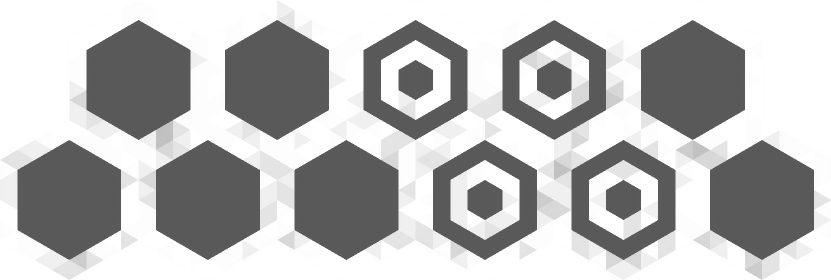
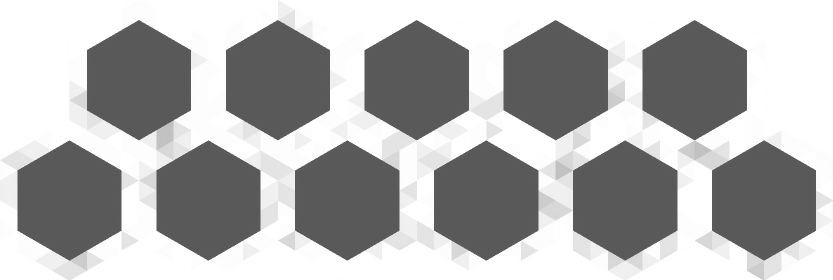
Updated Hexabar assets. Started implementation (need to finish adding buttons and fix the scaling problem).

diff --git a/core/main/java/com/ragego/gui/screens/GoGameScreen.java b/core/main/java/com/ragego/gui/screens/GoGameScreen.java
@@ -11,8 +11,14 @@ import com.badlogic.gdx.maps.tiled.TiledMapTileSet;
 import com.badlogic.gdx.maps.tiled.renderers.IsometricTiledMapRenderer;
 import com.badlogic.gdx.math.Vector2;
 import com.badlogic.gdx.math.Vector3;
+import com.badlogic.gdx.scenes.scene2d.InputEvent;
+import com.badlogic.gdx.scenes.scene2d.Stage;
+import com.badlogic.gdx.scenes.scene2d.utils.ClickListener;
 import com.badlogic.gdx.utils.viewport.ExtendViewport;
+import com.badlogic.gdx.utils.viewport.ScreenViewport;
 import com.ragego.gui.RageGoGame;
+import com.ragego.gui.menu.HexaBar;
+import com.ragego.gui.menu.HexaBarButton;
 import com.ragego.gui.objects.Goban;
 import com.ragego.utils.GuiUtils;
 
@@ -38,9 +44,12 @@ public abstract class GoGameScreen extends ScreenAdapter {
     protected TiledMapTileLayer gridLayer;
     protected TiledMapTileLayer selection;
     protected TiledMapTile selectionTile;
-
-    protected Vector2 topTileCoords, bottomTileCoords, leftTileCoords, rightTileCoords,
+        protected Vector2 topTileCoords, bottomTileCoords, leftTileCoords, rightTileCoords,
         topTileWorldCoords, bottomTileWorldCoords, leftTileWorldCoords, rightTileWorldCoords, mapPartCenter;
+
+    protected ScreenViewport hudViewport;
+    protected Stage hudStage;
+    protected HexaBar hexaBar;
 
     @Override
     public final void show() {
@@ -101,9 +110,80 @@ public abstract class GoGameScreen extends ScreenAdapter {
         setupGoban(goban);
 
         /*
-            Interaction components setup
-         */
+            HUD setup
+        */
+        hudViewport = new ScreenViewport();
+        hudStage = new Stage();
+        //stage.setDebugAll(true);
+
         Gdx.input.setInputProcessor(inputMultiplexer);
+        inputMultiplexer.addProcessor(hudStage);
+
+        hexaBar = new HexaBar(hudStage);
+
+        // Forward Button
+        HexaBarButton forwardButton = new HexaBarButton(hexaBar, "com/ragego/gui/hexabar/forward_button_up.png",
+                "com/ragego/gui/hexabar/forward_button_down.png", 1);
+        forwardButton.addListener(new ClickListener() {
+            @Override
+            public void clicked(InputEvent event, float x, float y) {
+            }
+        });
+        /*
+        //Solo Button
+        HexaBarButton soloButton = new HexaBarButton(hexaBar, "com/ragego/gui/hexabar/button_solo.png", HexaBar.Position.TOP);
+        soloButton.addListener(new ClickListener() {
+            @Override
+            public void clicked(InputEvent event, float x, float y) {
+                Gdx.app.log(TAG, "Solo Button clicked");
+            }
+        });
+
+        //Online Button
+        HexaBarButton onlineButton = new HexaBarButton(hexaBar, "com/ragego/gui/hexabar/button_online.png", HexaBar.Position.RIGHT_TOP);
+        onlineButton.addListener(new ClickListener() {
+            @Override
+            public void clicked(InputEvent event, float x, float y) {
+                nextScreen = new OnlineScreen();
+            }
+        });
+
+        //Credits Button
+        HexaBarButton creditsButton = new HexaBarButton(hexaBar, "com/ragego/gui/hexabar/button_credits.png", HexaBar.Position.RIGHT_BOTTOM);
+        creditsButton.addListener(new ClickListener() {
+            @Override
+            public void clicked(InputEvent event, float x, float y) {
+                Gdx.app.log(TAG, "Credits Button clicked");
+            }
+        });
+
+        //Return Button
+        HexaBarButton returnButton = new HexaBarButton(hexaBar, "com/ragego/gui/hexabar/button_return.png", HexaBar.Position.BOTTOM);
+        returnButton.addListener(new ClickListener() {
+            @Override
+            public void clicked(InputEvent event, float x, float y) {
+                Gdx.app.exit();
+            }
+        });
+
+        //Multiplayer Button
+        HexaBarButton multiPlayerButton = new HexaBarButton(hexaBar, "com/ragego/gui/hexabar/button_multiplayer.png", HexaBar.Position.LEFT_TOP);
+        multiPlayerButton.addListener(new ClickListener() {
+            @Override
+            public void clicked(InputEvent event, float x, float y) {
+                nextScreen = new SimpleGoGameScreen();
+            }
+        });
+
+        //Parameters Button
+        HexaBarButton parametersButton = new HexaBarButton(hexaBar, "com/ragego/gui/hexabar/button_parameters.png", HexaBar.Position.LEFT_BOTTOM);
+        parametersButton.addListener(new ClickListener() {
+            @Override
+            public void clicked(InputEvent event, float x, float y) {
+                Gdx.app.log(TAG, "Parameters Button clicked");
+            }
+        });
+        */
     }
 
     /**
@@ -129,6 +209,9 @@ public abstract class GoGameScreen extends ScreenAdapter {
 
         renderer.setView(camera);
         renderer.render();
+
+        hudStage.act(Math.min(Gdx.graphics.getDeltaTime(), 1 / 60f));
+        hudStage.draw();
     }
 
     @Override
@@ -157,6 +240,7 @@ public abstract class GoGameScreen extends ScreenAdapter {
     @Override
     public void dispose() {
         renderer.dispose();
+        hudStage.dispose();
     }
 
     public TiledMap getMap() {

diff --git a/core/main/java/com/ragego/gui/menu/HexaBarButton.java b/core/main/java/com/ragego/gui/menu/HexaBarButton.java
@@ -1,0 +1,85 @@
+package com.ragego.gui.menu;
+
+import com.badlogic.gdx.Gdx;
+import com.badlogic.gdx.graphics.Texture;
+import com.badlogic.gdx.graphics.g2d.TextureRegion;
+import com.badlogic.gdx.math.Vector2;
+import com.badlogic.gdx.scenes.scene2d.ui.Button;
+import com.badlogic.gdx.scenes.scene2d.utils.TextureRegionDrawable;
+
+/**
+ * Button for the {@link HexaBar}.
+ */
+public class HexaBarButton extends Button {
+
+    /**
+     * Menu where this button is displayed.
+     */
+    private final HexaBar hexabar;
+
+    /**
+     * Position of this button in the hexabar.
+     */
+    private int position;
+
+    private Texture upTexture;
+    private Texture downTexture;
+
+    /**
+     * @param hexabar The hexabar where the button will be
+     * @param upTexToLoad The up texture to load
+     * @param downTexToLoad The down texture to load
+     * @param position The wanted position in the hex coordinates system
+     */
+    public HexaBarButton(HexaBar hexabar, String upTexToLoad, String downTexToLoad, int position) {
+        this.hexabar = hexabar;
+        loadTex(upTexToLoad, downTexToLoad);
+        setSize(getPrefWidth(), getPrefHeight());
+        setPosition(position);
+        hexabar.addButton(this);
+    }
+
+    /**
+     * Load textures and update variables.
+     *
+     * @param upTexToLoad URI to give to {@link com.badlogic.gdx.Gdx#files}
+     * @param downTexToLoad URI to give to {@link com.badlogic.gdx.Gdx#files}
+     */
+    private void loadTex(String upTexToLoad, String downTexToLoad) {
+        upTexture = new Texture(Gdx.files.classpath(upTexToLoad));
+        downTexture = new Texture(Gdx.files.classpath(downTexToLoad));
+        Button.ButtonStyle style = new Button.ButtonStyle();
+        style.up = new TextureRegionDrawable(new TextureRegion(upTexture));
+        style.down = new TextureRegionDrawable(new TextureRegion(downTexture));
+        setStyle(style);
+    }
+
+    /**
+     * Get the used position for this button.
+     *
+     * @return The position
+     */
+    public int getPosition() {
+        return position;
+    }
+
+    /**
+     * Update the position of button on a given position
+     *
+     * @param position The wanted position for this button
+     */
+    public void setPosition(int position) {
+        this.position = position;
+        final Vector2 coordinates = hexabar.getCoordinateFor(position);
+        coordinates.add(-1.0f * getWidth() * 0.5f, -1.0f * getHeight() * 0.5f);
+        setPosition(coordinates.x, coordinates.y);
+    }
+
+    /**
+     * Dispose texture loaded by this button.
+     */
+    public void dispose() {
+        upTexture.dispose();
+        downTexture.dispose();
+    }
+}

diff --git a/core/main/java/com/ragego/gui/menu/HexaBar.java b/core/main/java/com/ragego/gui/menu/HexaBar.java
@@ -1,0 +1,60 @@
+package com.ragego.gui.menu;
+
+import com.badlogic.gdx.Gdx;
+import com.badlogic.gdx.graphics.Texture;
+import com.badlogic.gdx.math.Vector2;
+import com.badlogic.gdx.scenes.scene2d.Stage;
+import com.badlogic.gdx.scenes.scene2d.ui.Image;
+
+import java.util.HashMap;
+
+/**
+ * Manages positions and display for an hexagonal menu.
+ */
+public class HexaBar {
+
+    private static final String BAR_BACKGROUND_TEXTURE = "com/ragego/gui/hexabar/frame_white.png";
+    private static final int BUTTONS_NB = 11;
+    private final Texture backgroundTexture;
+    private final Image hexaBarBackground;
+    private HashMap<Integer, HexaBarButton> buttons = new HashMap<Integer, HexaBarButton>(BUTTONS_NB);
+    private Stage stage;
+
+    public HexaBar(Stage stage) {
+        this.stage = stage;
+        backgroundTexture = new Texture(Gdx.files.classpath(BAR_BACKGROUND_TEXTURE));
+        hexaBarBackground = new Image(backgroundTexture);
+        Vector2 menuBackCenter = new Vector2(hexaBarBackground.getWidth() * 0.5f, hexaBarBackground.getHeight() * 0.5f);
+        hexaBarBackground.setPosition(stage.getWidth() * 0.5f - menuBackCenter.x, 0);
+        stage.addActor(hexaBarBackground);
+    }
+
+    public void addButton(HexaBarButton button) {
+        buttons.put(button.getPosition(), button);
+        stage.addActor(button);
+    }
+
+    /**
+     * Gets the coordinates for a given position
+     * Gives the centered position for a position. You should center your object after.
+     *
+     * @param position The position you want
+     * @return The coordinate corresponding to the position
+     */
+    public Vector2 getCoordinateFor(int position) {
+        Vector2 coordinates = new Vector2(hexaBarBackground.getX(), hexaBarBackground.getY());
+        coordinates.x += hexaBarBackground.getWidth() * position / (BUTTONS_NB + 1);
+        if (position%2==0)
+            coordinates.y += hexaBarBackground.getHeight() * 5 / 7;
+        else
+            coordinates.y += hexaBarBackground.getHeight() * 2 / 7;
+        return coordinates;
+    }
+
+    public void dispose() {
+        this.backgroundTexture.dispose();
+        for (HexaBarButton hexagonalButton : buttons.values()) {
+            hexagonalButton.dispose();
+        }
+    }
+}
